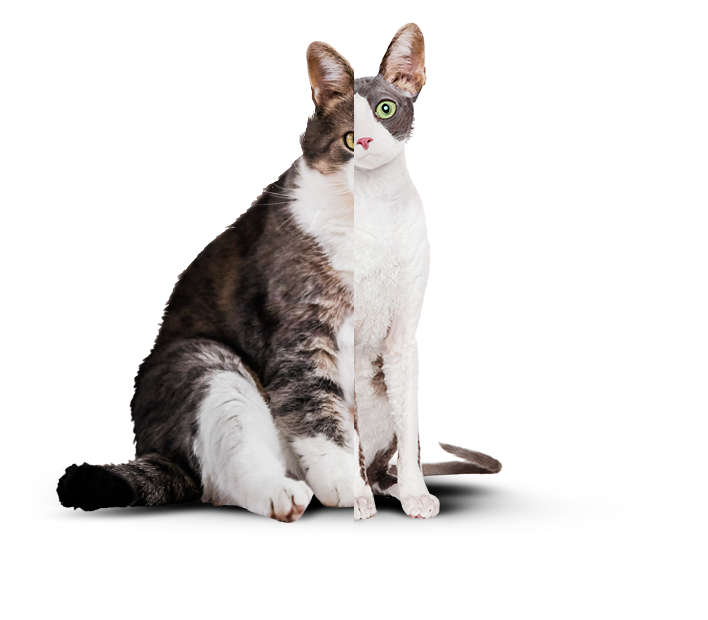
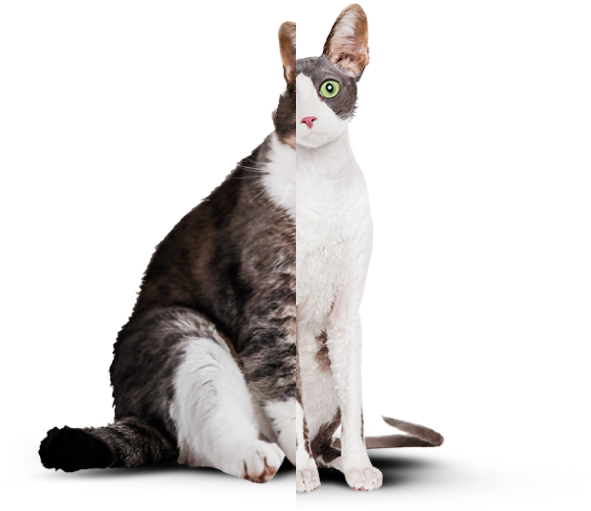
Декоративные элементы внутренних страниц

Changed region(s): [[0.0609, 0.0, 0.7919, 0.9687]]

diff --git a/source/sass/blocks/before-after.scss b/source/sass/blocks/before-after.scss
@@ -144,7 +144,7 @@
     &::before {
       content: "";
       position: absolute;
-      top: 560px;
+      top: 570px;
       left: 0;
       right: 0;
       height: 100%;
@@ -175,6 +175,7 @@
   }
 
   .before-after__wrapper {
+    margin-bottom: 40px;
     display: flex;
     flex-wrap: wrap;
     flex-direction: row;
@@ -219,8 +220,8 @@
   }
 
   .before-after__block {
-    margin-bottom: 20px;
     width: 591px;
+    position: relative;
   }
 
   .before-after__button {
@@ -229,6 +230,15 @@
     font-size: 20px;
     line-height: 30px;
     cursor: pointer;
+    border-bottom: 1px dotted $border-darker;
+
+    &:hover {
+      border-bottom: 1px solid $border-darker;
+    }
+
+    &:active {
+      border-bottom: 1px solid transparent;
+    }
   }
 
   .before-after__progress {
@@ -251,6 +261,10 @@
     cursor: pointer;
     border: 1px solid $radio-border;
     box-shadow: 0 2px 5px 0 $color-text-active;
+
+    &:active {
+      border: 1px solid $color-bottom;
+    }
 
     &::before {
       content: "";
@@ -304,6 +318,7 @@
   }
 
   .before-after__wrapper {
+    margin-bottom: 0;
     flex-wrap: wrap;
   }
 
@@ -316,7 +331,7 @@
   .before-after__block {
     position: relative;
     left: 55px;
-    width: 586px;
+    width: 545px;
   }
 
   .before-after__image {
@@ -329,7 +344,7 @@
   }
 
   .before-after__progress {
-    width: 470px;
+    width: 418px;
   }
 
   .before-after__stats {

diff --git a/source/index.html b/source/index.html
@@ -107,8 +107,8 @@
           </div>
           <div class="before-after__switch">
             <picture>
-              <source media="(min-width: 1440px)" srcset="img/cat-fat.png">
-              <source media="(min-width: 768px)" srcset="img/cat-fat.png">
+              <source media="(min-width: 1440px)" srcset="img/befor-after.png">
+              <source media="(min-width: 768px)" srcset="img/befor-after.png">
               <img class="before-after__image" src="img/before-cat.png" alt="before">
             </picture>
             <div class="before-after__block">
